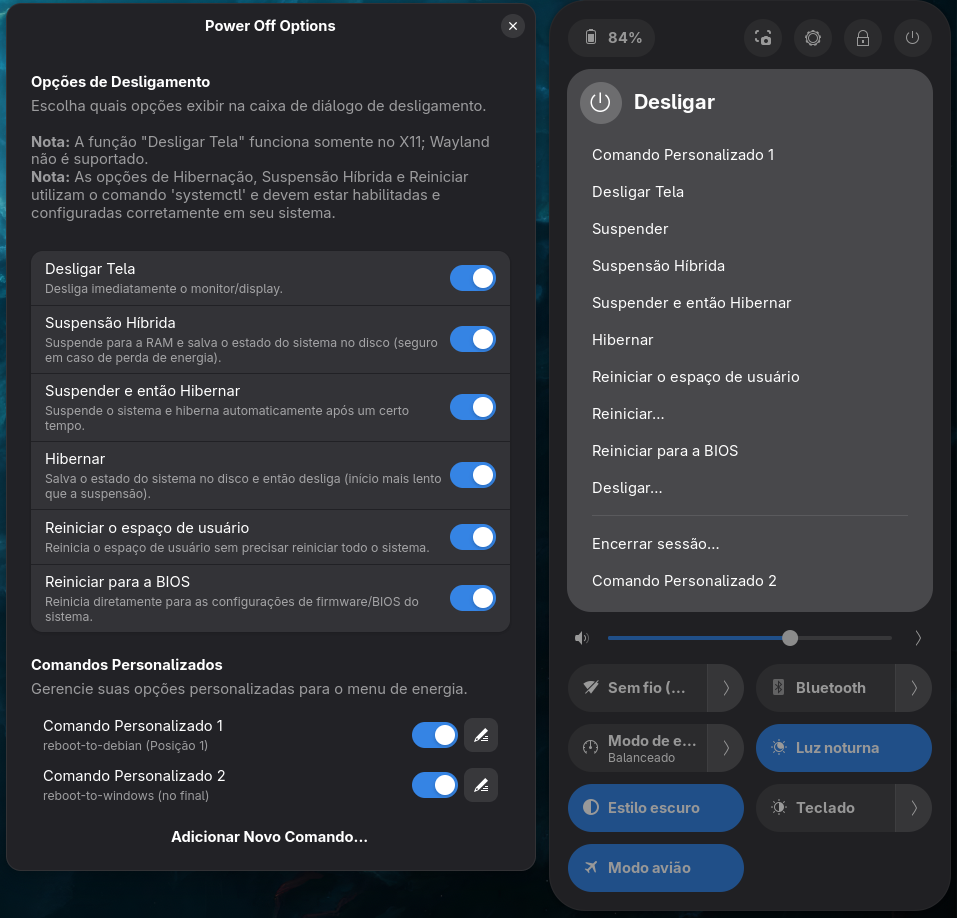
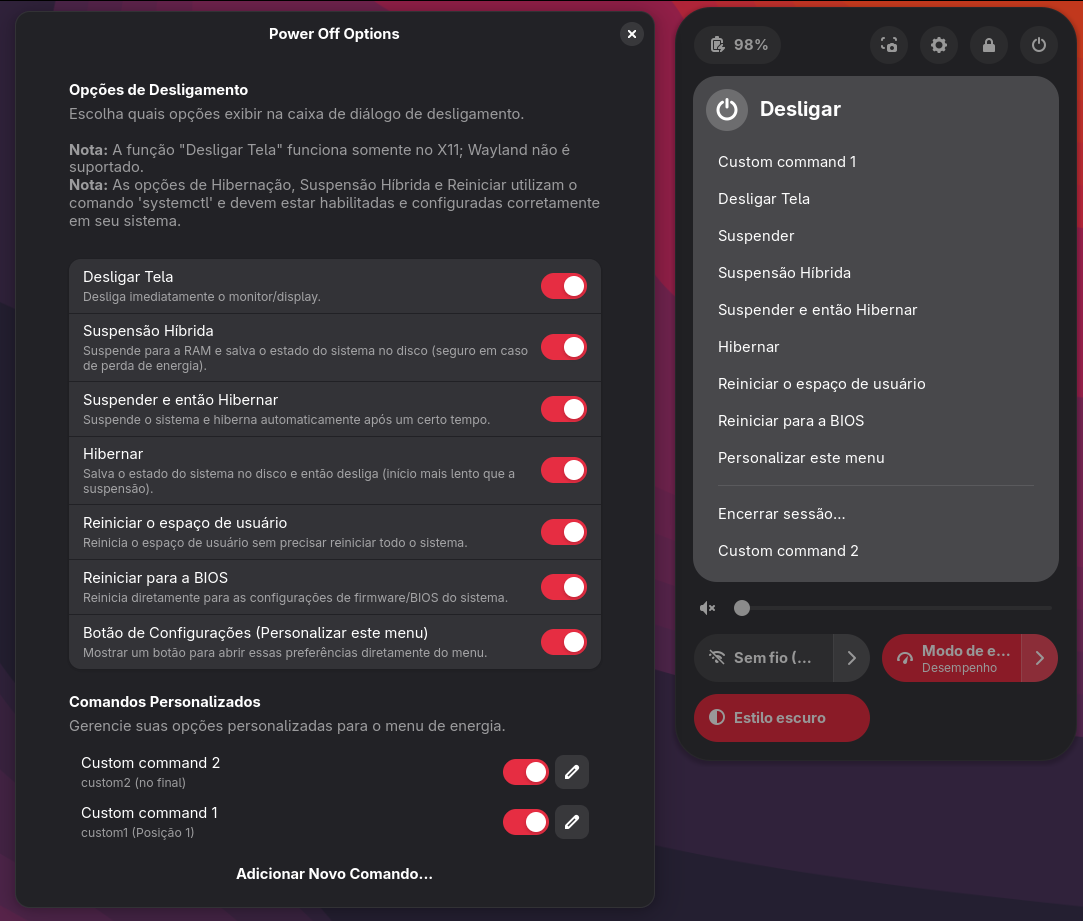
feat: add Settings Button to customize menu and update translations

Changed region(s): [[0.0, 0.0, 1.0, 1.0]]

diff --git a/power-off-options@axelitama.github.io/prefs.js b/power-off-options@axelitama.github.io/prefs.js
@@ -63,6 +63,12 @@ export default class ExamplePreferences extends ExtensionPreferences {
         });
         group.add(rebootToBiosRow);
 
+        const settingsRow = new Adw.SwitchRow({
+            title: _('Settings Button (Customize this menu)'),
+            subtitle: _('Show a button to open these preferences directly from the menu.'),
+        });
+        group.add(settingsRow);
+        
         // Bind settings
         settings.bind('show-screenoff', screenOffRow, 'active', Gio.SettingsBindFlags.DEFAULT);
         settings.bind('show-hybrid-sleep', hybridSleepRow, 'active', Gio.SettingsBindFlags.DEFAULT);
@@ -70,6 +76,7 @@ export default class ExamplePreferences extends ExtensionPreferences {
         settings.bind('show-hibernate', hibernateRow, 'active', Gio.SettingsBindFlags.DEFAULT);
         settings.bind('show-soft-reboot', softRebootRow, 'active', Gio.SettingsBindFlags.DEFAULT);
         settings.bind('show-reboot-to-bios', rebootToBiosRow, 'active', Gio.SettingsBindFlags.DEFAULT);
+        settings.bind('show-settings', settingsRow, 'active', Gio.SettingsBindFlags.DEFAULT);
         
         const customCommandsGroup = new CustomCommandsManager(settings);
         page.add(customCommandsGroup);

diff --git a/power-off-options@axelitama.github.io/extension.js b/power-off-options@axelitama.github.io/extension.js
@@ -9,6 +9,7 @@ import HibernationButton from './buttons/hibernationButton.js';
 import SuspendThenHibernateButton from './buttons/suspendThenHibernateButton.js';
 import SoftRebootButton from './buttons/softRebootButton.js';
 import RebootToBiosButton from './buttons/rebootToBiosButton.js';
+import SettingsButton from './buttons/settingsButton.js';
 import CustomButton from './buttons/customButton.js';
 
 export default class PowerOffOptions extends Extension {
@@ -91,6 +92,13 @@ export default class PowerOffOptions extends Extension {
                 settingKey: 'show-reboot-to-bios',
                 defaultPosition: 2,
                 shiftDeps: ['screenOff', 'hybridSleep', 'suspendThenHibernate', 'hibernate', 'softReboot'],
+            },
+            {
+                key: 'settings',
+                instance: new SettingsButton(this._systemMenu),
+                settingKey: 'show-settings',
+                defaultPosition: 3,
+                shiftDeps: ['screenOff', 'hybridSleep', 'suspendThenHibernate', 'hibernate', 'softReboot', 'rebootToBios'],
             },
         ];
     }

diff --git a/power-off-options@axelitama.github.io/buttons/settingsButton.js b/power-off-options@axelitama.github.io/buttons/settingsButton.js
@@ -1,0 +1,10 @@
+import { gettext as _ } from 'resource:///org/gnome/shell/extensions/extension.js';
+import CmdAsyncButton from './_cmdAsyncButton.js';
+
+export default class SettingsButton extends CmdAsyncButton {
+    constructor(systemMenu) {
+        const uuid = "power-off-options@axelitama.github.io";
+        const argv = ['gnome-extensions', 'prefs', uuid];
+        super(systemMenu, _('Customize this menu'), argv);
+    }
+}
